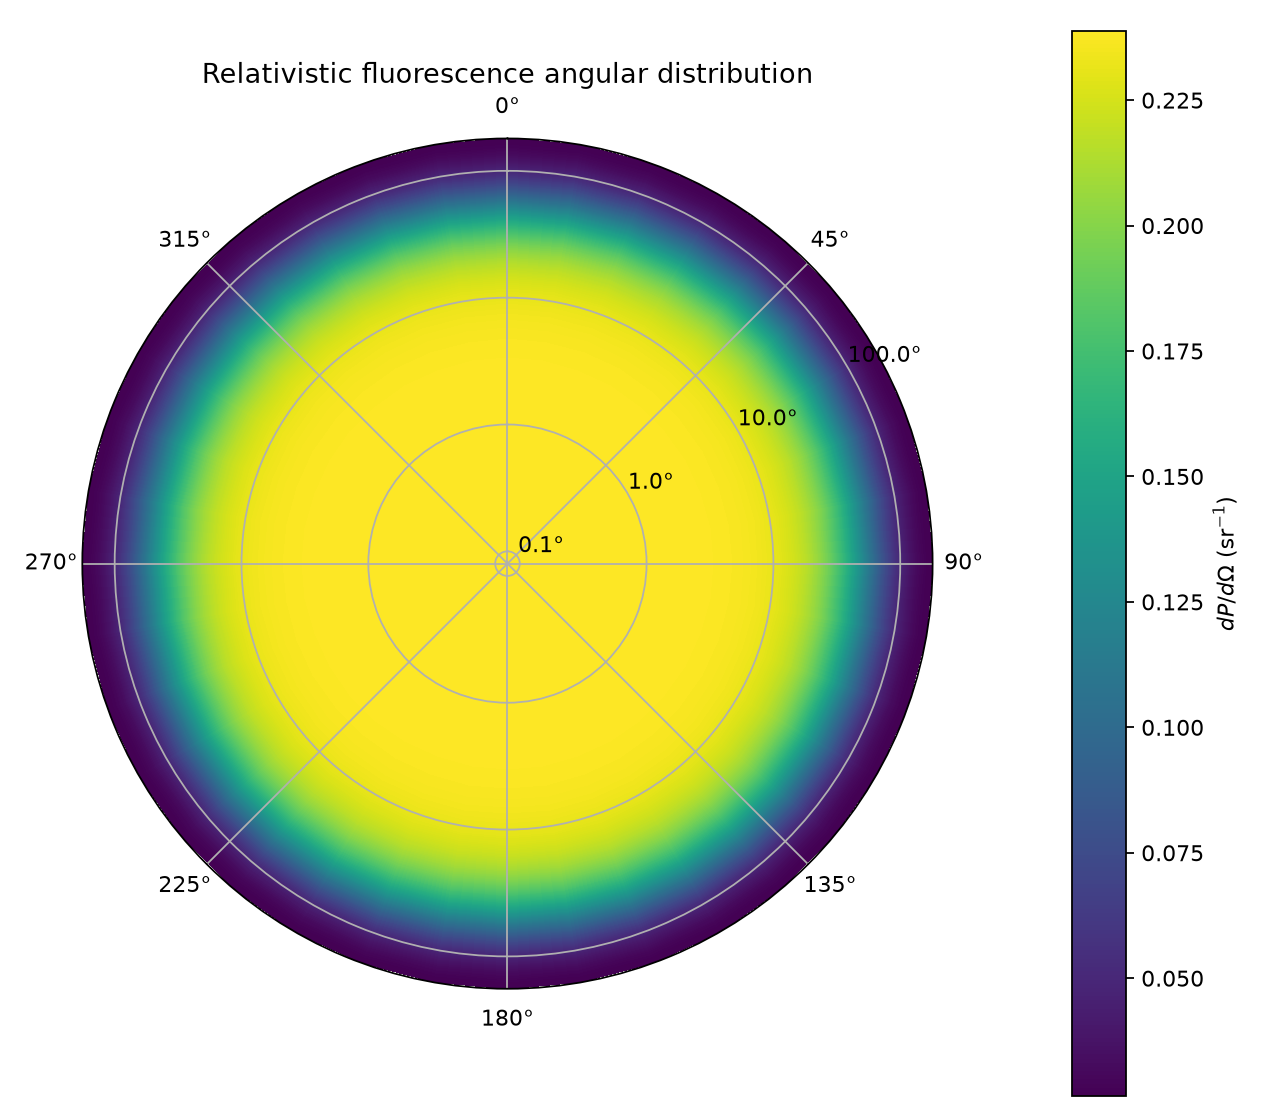
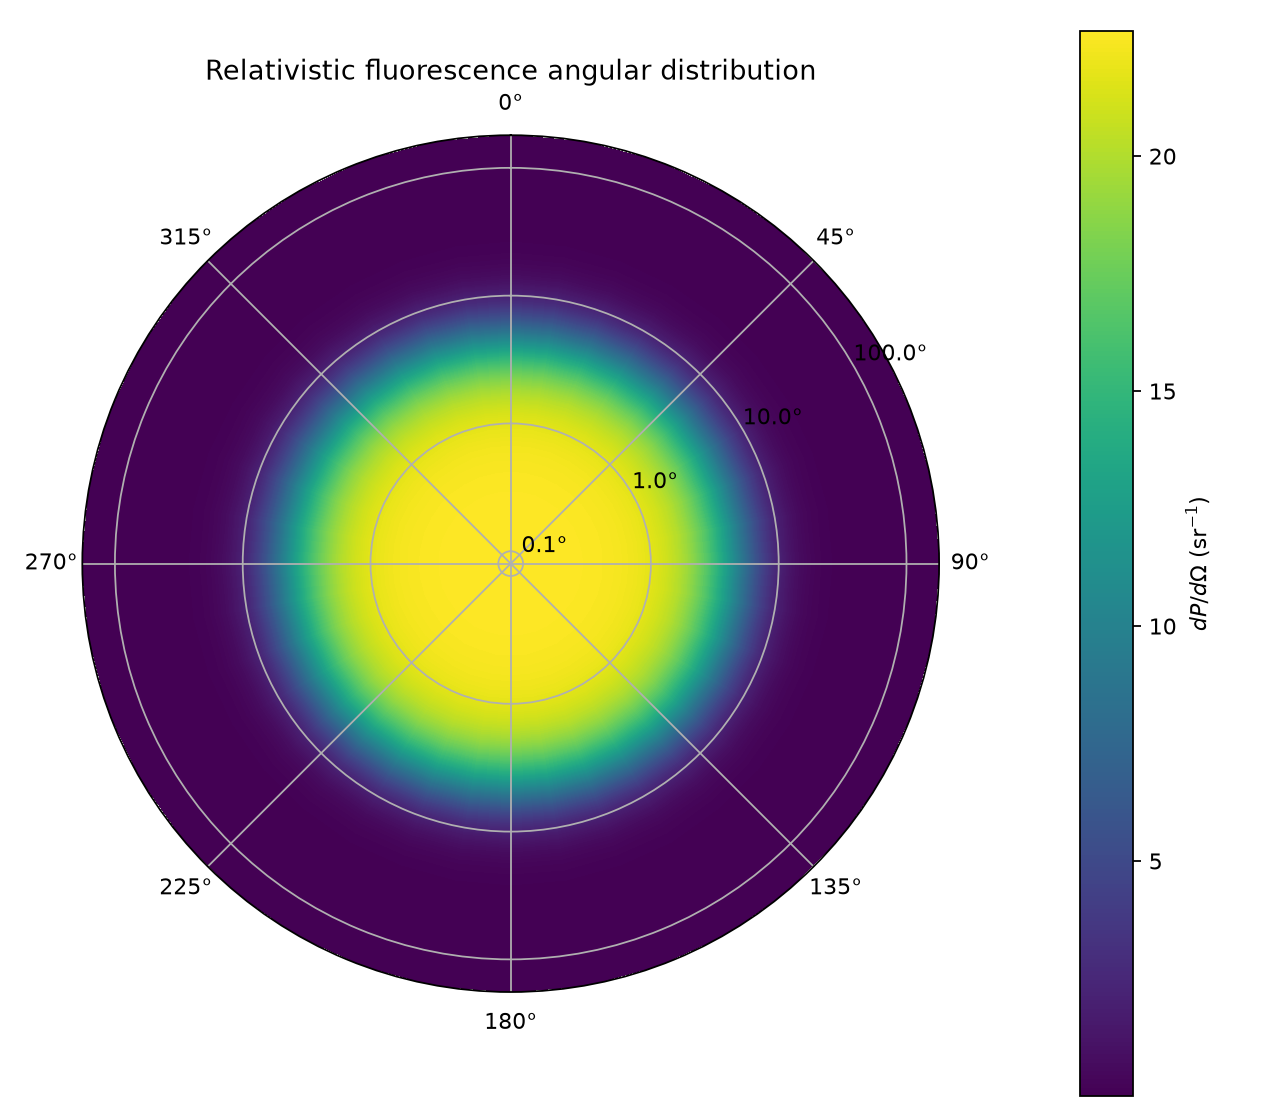
included laser linewidth

diff --git a/src/fluorescence/laser.py b/src/fluorescence/laser.py
@@ -1,4 +1,4 @@
-
+from numpy.polynomial.hermite import hermgauss
 from dataclasses import dataclass
 
 import numpy as np
@@ -105,6 +105,7 @@ class Resonance:
 
 
 
+    """
     def excitation_weight_broadened(
             self,
             laser: Laser,
@@ -143,3 +144,82 @@ class Resonance:
                 -0.5 * (detuning / sigma_effective)**2
             )
         )
+        """
+
+
+
+
+    def excitation_weight_broadened(
+        self,
+        laser: Laser,
+        beta: np.ndarray | float,
+        n_points: int = 60,
+    ):
+        """
+        Excitation strength averaged over a Gaussian laser spectrum.
+
+        The transition line shape remains Lorentzian.
+        The laser energy distribution is Gaussian.
+
+        The convolution is calculated using Gauss-Hermite quadrature.
+        """
+
+        beta = np.asarray(beta, dtype=float)
+
+        if np.any(np.abs(beta) >= 1.0):
+            raise ValueError("Beta must satisfy |beta| < 1.")
+
+        if laser.energy_sigma_eV < 0:
+            raise ValueError("Laser energy sigma must not be negative.")
+
+        if n_points < 1:
+            raise ValueError("n_points must be positive.")
+
+        # No laser bandwidth: use the monochromatic Lorentzian.
+        if laser.energy_sigma_eV == 0:
+            return self.excitation_weight(laser, beta)
+
+        # Doppler factor for the chosen laser geometry.
+        gamma = 1.0 / np.sqrt(1.0 - beta**2)
+
+        doppler = gamma * (
+            1.0 - beta * np.cos(laser.angle_rad)
+        )
+
+        # Gauss-Hermite quadrature nodes and weights.
+        nodes, weights = hermgauss(n_points)
+
+        # Gaussian distribution of laser photon energies.
+        laser_energies = (
+            laser.photon_energy_eV
+            + np.sqrt(2.0) * laser.energy_sigma_eV * nodes
+        )
+
+        # Transform all sampled laser energies into the ion frame.
+        rest_energies = (
+            laser_energies[:, np.newaxis]
+            * np.atleast_1d(doppler).reshape(1, -1)
+        )
+
+        # Detuning for every laser energy and ion velocity.
+        detuning = rest_energies - self.transition_energy_eV
+
+        # Original Lorentzian transition profile.
+        half_width = self.linewidth_eV / 2.0
+
+        excitation = half_width**2 / (
+            detuning**2 + half_width**2
+        )
+
+        # Average over the Gaussian laser spectrum.
+        result = np.sum(
+            weights[:, np.newaxis] * excitation,
+            axis=0,
+        ) / np.sqrt(np.pi)
+
+        result = result.reshape(beta.shape)
+
+        if beta.ndim == 0:
+            return float(result)
+
+        return result

diff --git a/src/fluorescence/main.py b/src/fluorescence/main.py
@@ -70,18 +70,19 @@ def main() -> None:
     print(f"Backward photon energy: {spectrum.backward_energy_eV:.6g} eV")
 
     # Laser excitation
-    laser = Laser(photon_energy_eV=args.laser_energy, energy_sigma_eV=args.laser_energy_sigma, angle_rad=np.pi)
+    laser = Laser(photon_energy_eV=args.laser_energy, energy_sigma_eV=args.laser_energy_sigma, angle_rad=np.pi) # angle = pi --> antikollinear
     resonance = Resonance(transition_energy_eV=transition.energy_eV, linewidth_eV=args.linewidth)
 
     laser_energy_rest = laser.energy_in_ion_rest_frame(ion.beta)
     detuning = resonance.detuning(laser, ion.beta)
-    excitation_weight = resonance.excitation_weight(laser, ion.beta)
+    #excitation_weight = resonance.excitation_weight(laser, ion.beta)
+    excitation_weight = resonance.excitation_weight_broadened(laser, ion.beta)
 
     print("\nLaser excitation:")
-    print(f"Laser energy (lab):       {args.laser_energy:.6f} eV")
-    print(f"Laser energy (ion frame): {laser_energy_rest:.6f} eV")
-    print(f"Detuning:                 {detuning: 6f} eV")
-    print(f"Excitation weight:        {excitation_weight: 6f}")
+    print(f"Laser energy (lab):            {args.laser_energy:.6f} eV")
+    print(f"Laser energy (ion frame):      {laser_energy_rest:.6f} eV")
+    print(f"Detuning:                      {detuning: 6f} eV")
+    print(f"Excitation weight (broadened): {excitation_weight: 6f}")
 
 
 

diff --git a/src/fluorescence/plotting.py b/src/fluorescence/plotting.py
@@ -151,7 +151,8 @@ def plot_excitation_vs_beta(laser: Laser, resonance: Resonance, beta_center: flo
     beta_max = beta_resonance + 5. * beta_width
 
     beta = np.linspace(beta_min, beta_max, 2000)
-    excitation = resonance.excitation_weight(laser, beta)
+    #excitation = resonance.excitation_weight(laser, beta)
+    excitation = resonance.excitation_weight_broadened(laser, beta)
 
     delta_beta = (beta - beta_resonance) / 1e-6
 
@@ -206,7 +207,8 @@ def plot_beam_excitation(
     beam /= np.trapezoid(beam, beta)
 
     # Excitation strength for each velocity
-    excitation = resonance.excitation_weight(laser, beta)
+    #excitation = resonance.excitation_weight(laser, beta)
+    excitation = resonance.excitation_weight_broadened(laser, beta)
 
     # Distribution of excited ions
     excited_beam = beam * excitation
